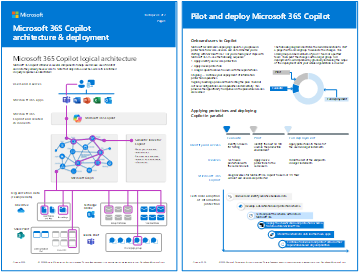
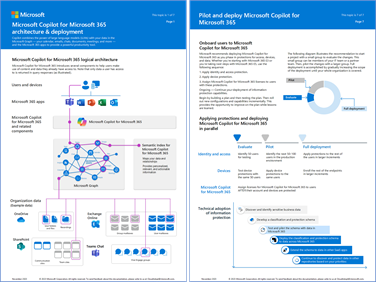
Copilot rebranding updates.

Changed region(s): [[0.0, 0.0, 1.0, 1.0], [0.1838, 0.4118, 0.3983, 0.4706]]

diff --git a/zero-trust/zero-trust-microsoft-365-copilot.md b/zero-trust/zero-trust-microsoft-365-copilot.md
@@ -1,6 +1,6 @@
 ---
-title: Apply principles of Zero Trust to Microsoft 365 Copilot
-description: Learn how to secure Microsoft 365 Copilot with Zero Trust principles. 
+title: Apply principles of Zero Trust to Microsoft Copilot for Microsoft 365
+description: Learn how to secure Microsoft Copilot for Microsoft 365 with Zero Trust principles. 
 ms.date: 11/01/2023
 ms.service: security
 author: bcarter
@@ -13,11 +13,11 @@ ms.collection:
   - zerotrust-azure
 ---
 
-# Apply principles of Zero Trust to Microsoft 365 Copilot
+# Apply principles of Zero Trust to Microsoft Copilot for Microsoft 365
 
-Before you introduce Microsoft 365 Copilot into your environment, Microsoft recommends that you build a strong foundation of security. Fortunately, guidance for a strong security foundation exists in the form of [Zero Trust](zero-trust-overview.md). The Zero Trust security strategy treats each connection and resource request as though it originated from an uncontrolled network and a bad actor. Regardless of where the request originates or what resource it accesses, Zero Trust teaches us to "never trust, always verify."
+Before you introduce Microsoft Copilot for Microsoft 365 into your environment, Microsoft recommends that you build a strong foundation of security. Fortunately, guidance for a strong security foundation exists in the form of [Zero Trust](zero-trust-overview.md). The Zero Trust security strategy treats each connection and resource request as though it originated from an uncontrolled network and a bad actor. Regardless of where the request originates or what resource it accesses, Zero Trust teaches us to "never trust, always verify."
 
-This article provides steps to apply the [principles of Zero Trust](zero-trust-overview.md#guiding-principles-of-zero-trust) security to prepare your environment for Microsoft 365 Copilot in the following ways:
+This article provides steps to apply the [principles of Zero Trust](zero-trust-overview.md#guiding-principles-of-zero-trust) security to prepare your environment for Microsoft Copilot for Microsoft 365 in the following ways:
 
 | Zero Trust principle | Definition | Met by |
 | --- | --- | --- |
@@ -25,26 +25,26 @@ This article provides steps to apply the [principles of Zero Trust](zero-trust-o
 | Use least privileged access |  Limit user access with Just-In-Time and Just-Enough-Access (JIT/JEA), risk-based adaptive policies, and data protection. | Validate JEA across your organization to eliminate oversharing by ensuring that correct permissions are assigned to files, folders, Teams, and email. Use sensitivity labels and data loss prevention policies to protect data.  |
 | Assume breach | Minimize blast radius and segment access. Verify end-to-end encryption and use analytics to get visibility, drive threat detection, and improve defenses. | Use Exchange Online Protection (EOP) and Microsoft 365 Defender services to automatically prevent common attacks and to detect and respond to security incidents. |
 
-For the basics of Microsoft 365 Copilot, see the [overview](/microsoft-365-copilot/microsoft-365-copilot-overview) and [how to get started](/microsoft-365-copilot/microsoft-365-copilot-setup).
+For the basics of Microsoft Copilot for Microsoft 365, see the [overview](/microsoft-365-copilot/microsoft-365-copilot-overview) and [how to get started](/microsoft-365-copilot/microsoft-365-copilot-setup).
 
 ## Logical architecture
 
-You apply Zero Trust principles for Microsoft 365 Copilot across the entire architecture, from users and devices to the application data that they have access to. The following diagram shows the logical architecture components.
+You apply Zero Trust principles for Microsoft Copilot for Microsoft 365 across the entire architecture, from users and devices to the application data that they have access to. The following diagram shows the logical architecture components.
 
-:::image type="content" source="media/copilot/logical-architecture-microsoft-365-copilot.svg" alt-text="Diagram of the logical architecture for Microsoft 365 Copilot." lightbox="media/copilot/logical-architecture-microsoft-365-copilot.svg":::
+:::image type="content" source="media/copilot/logical-architecture-microsoft-365-copilot.svg" alt-text="Diagram of the logical architecture for Microsoft Copilot for Microsoft 365." lightbox="media/copilot/logical-architecture-microsoft-365-copilot.svg":::
 
 In the diagram:
 
 - User devices have Microsoft 365 apps installed from which users can initiate Copilot prompts
-- Microsoft 365 Copilot components include:
-  - The Microsoft 365 Copilot service, which orchestrates the responses to user prompts
+- Microsoft Copilot for Microsoft 365 components include:
+  - The Microsoft Copilot for Microsoft 365 service, which orchestrates the responses to user prompts
   - A Semantic Index for the data in your Microsoft 365 tenant
   - An instance of the Microsoft Graph for the data your Microsoft 365 tenant
 - Your Microsoft 365 tenant that contains your organization data
 
 ## What’s in this article
 
-This article walks you through the steps to apply the principles of Zero Trust to prepare your Microsoft 365 environment for Microsoft 365 Copilot.
+This article walks you through the steps to apply the principles of Zero Trust to prepare your Microsoft 365 environment for Microsoft Copilot for Microsoft 365.
 
 | Step | Task | Zero Trust principle(s) applied |
 | --- | --- | --- |
@@ -58,14 +58,14 @@ This article walks you through the steps to apply the principles of Zero Trust t
 
 Because different organizations can be at various stages of deploying Zero Trust protections, in each of these steps:
 
-- If you're NOT using any of the protections described in the step, take the time to pilot and deploy them prior to assigning Microsoft 365 Copilot licenses.
-- If you're using some of the protections described in the step, use the information in the step as a checklist and verify that each protection stated and pilot and deploy them prior to assigning Microsoft 365 Copilot licenses.
+- If you're NOT using any of the protections described in the step, take the time to pilot and deploy them prior to assigning Microsoft Copilot for Microsoft 365 licenses.
+- If you're using some of the protections described in the step, use the information in the step as a checklist and verify that each protection stated and pilot and deploy them prior to assigning Microsoft Copilot for Microsoft 365 licenses.
 
-For the latest Microsoft 365 Copilot support for security-related and other features of Microsoft 365, see [Microsoft 365 Copilot requirements](/microsoft-365-copilot/microsoft-365-copilot-requirements).
+For the latest Microsoft Copilot for Microsoft 365 support for security-related and other features of Microsoft 365, see [Microsoft Copilot for Microsoft 365 requirements](/microsoft-365-copilot/microsoft-365-copilot-requirements).
 
 ## Step 1. Deploy or validate your identity and access policies
 
-To prevent bad actors from using Microsoft 365 Copilot to more quickly discover and access sensitive data, the first step is to prevent them from gaining access. You must ensure that:
+To prevent bad actors from using Microsoft Copilot for Microsoft 365 to more quickly discover and access sensitive data, the first step is to prevent them from gaining access. You must ensure that:
 
 - Users are required to use strong authentication that can't be compromised by guessing user passwords alone.
 - Authentication attempts are evaluated for their risk and have more requirements imposed.
@@ -113,7 +113,7 @@ For more information, see [Create App Protection policies](/mem/intune/apps/app-
 
 ## Step 3. Deploy or validate your device management and protection
 
-To prevent bad actors from compromising devices or using compromised devices to gain access to Microsoft 365 Copilot, the next step is to use Microsoft 365 features of device management and protection. You must ensure that:
+To prevent bad actors from compromising devices or using compromised devices to gain access to Microsoft Copilot for Microsoft 365, the next step is to use Microsoft 365 features of device management and protection. You must ensure that:
 
 - Devices are enrolled in Microsoft Intune and must meet health and compliance requirements.
 - You can administer settings and features on devices.
@@ -147,7 +147,7 @@ To deploy these device protection and management capabilities, use the following
 
 ## Step 4. Deploy or validate your threat protection services
 
-To detect the activities of bad actors and keep them from gaining access to Microsoft 365 Copilot, the next step is to use threat protection services of Microsoft 365. You must ensure that:
+To detect the activities of bad actors and keep them from gaining access to Microsoft Copilot for Microsoft 365, the next step is to use threat protection services of Microsoft 365. You must ensure that:
 
 - You can automatically prevent common types of email and device-based attacks.
 - You can use features to reduce the attack surface area of Windows devices.
@@ -252,7 +252,7 @@ Consider these additional Microsoft 365 E5 capabilities:
 
 ## Step 6. Deploy or validate secure collaboration for Microsoft Teams
 
-Microsoft provides guidance for protecting your Teams at three different levels – baseline, sensitive, and highly sensitive. Introducing Microsoft 365 Copilot is a good time to review your environment and ensure that appropriate protection is configured. Use these steps:
+Microsoft provides guidance for protecting your Teams at three different levels – baseline, sensitive, and highly sensitive. Introducing Microsoft Copilot for Microsoft 365 is a good time to review your environment and ensure that appropriate protection is configured. Use these steps:
 
 1. Identify Teams or projects that warrant highly sensitive protection. Configure protections for this level. Many organizations don’t have data that requires this level of protection.
 2. Identify Teams or projects that warrant sensitive protection and apply this protection.
@@ -265,7 +265,7 @@ See these resources for more information:
 
 ### External sharing
 
-Introducing Microsoft 365 Copilot is a good time to review your policies for sharing files with people outside your organization and for allowing external contributors. Guest accounts aren't licensed to use Microsoft 365 Copilot.
+Introducing Microsoft Copilot for Microsoft 365 is a good time to review your policies for sharing files with people outside your organization and for allowing external contributors. Guest accounts aren't licensed to use Microsoft Copilot for Microsoft 365.
 
 For sharing with people outside your organization, you might need to share information of any sensitivity. See these resources:
 
@@ -302,7 +302,7 @@ To detect existing oversharing:
 
 ## Applying protections and deploying Copilot in parallel
 
-To streamline the assignment of Microsoft 365 Copilot licenses in your tenant with the appropriate protections in place, you do both in parallel. The following diagram shows how you can move through the three phases of rolling out protections prior to assigning Microsoft 365 Copilot licenses to individual user accounts and their devices once they're protected.
+To streamline the assignment of Microsoft Copilot for Microsoft 365 licenses in your tenant with the appropriate protections in place, you do both in parallel. The following diagram shows how you can move through the three phases of rolling out protections prior to assigning Microsoft Copilot for Microsoft 365 licenses to individual user accounts and their devices once they're protected.
 
 :::image type="content" source="media/copilot/parallel-deployment-for-microsoft-365-copilot.svg" alt-text="Diagram of applying protections and deploying Copilot in parallel." lightbox="media/copilot/parallel-deployment-for-microsoft-365-copilot.svg":::
 
@@ -310,33 +310,33 @@ As the diagram also shows, you can roll out information protection across your o
 
 ## Training 
 
-### Get started with Microsoft 365 Copilot
+### Get started with Microsoft Copilot for Microsoft 365
 
-|Training  |[Get started with Microsoft 365 Copilot](/training/paths/get-started-with-microsoft-365-copilot/)|
+|Training  |[Get started with Microsoft Copilot for Microsoft 365](/training/paths/get-started-with-microsoft-365-copilot/)|
 |---------|---------|
-|:::image type="icon" source="media/generic-trophy.svg" border="false"::: | This learning path walks you through the basics of Microsoft 365 Copilot, showcases its versatility across various Microsoft 365 applications, and offers advice on maximizing its potential. |
+|:::image type="icon" source="media/generic-trophy.svg" border="false"::: | This learning path walks you through the basics of Microsoft Copilot for Microsoft 365, showcases its versatility across various Microsoft 365 applications, and offers advice on maximizing its potential. |
 > [!div class="nextstepaction"]
 > [Start >](/training/paths/get-started-with-microsoft-365-copilot/)
 
 
-|Training  |[Prepare your organization for Microsoft 365 Copilot](/training/paths/prepare-your-organization-microsoft-365-copilot/)|
+|Training  |[Prepare your organization for Microsoft Copilot for Microsoft 365](/training/paths/prepare-your-organization-microsoft-365-copilot/)|
 |---------|---------|
-|:::image type="icon" source="media/generic-trophy.svg" border="false"::: | This learning path examines the Microsoft 365 Copilot design, its security and compliance features, and provides instruction on how to implement Microsoft 365 Copilot. |
+|:::image type="icon" source="media/generic-trophy.svg" border="false"::: | This learning path examines the Microsoft Copilot for Microsoft 365 design, its security and compliance features, and provides instruction on how to implement Microsoft Copilot for Microsoft 365. |
 > [!div class="nextstepaction"]
 > [Start >](/training/paths/prepare-your-organization-microsoft-365-copilot/)
 
 
 ## Next steps
 
-See the [How to get ready for Microsoft 365 Copilot](https://www.youtube.com/watch?v=oeX0lsMA69U&t=2s) video.
+See the [How to get ready for Microsoft Copilot for Microsoft 365](https://www.youtube.com/watch?v=oeX0lsMA69U&t=2s) video.
 
-Use the [Microsoft 365 Copilot documentation](/microsoft-365-copilot/).
+Use the [Microsoft Copilot for Microsoft 365 documentation](/microsoft-365-copilot/).
 
 ## Summary poster
 
-For a visual summary of the information in this article, see the **Microsoft 365 Copilot architecture & deployment** poster. 
+For a visual summary of the information in this article, see the **Microsoft Copilot for Microsoft 365 architecture & deployment** poster. 
 
-[![Microsoft 365 Copilot architecture poster thumb](media/tech-illus/microsoft-365-copilot-architecture-thumb.png)](https://download.microsoft.com/download/c/d/6/cd6c6858-f87b-4dc5-a593-e87db0aa6029/microsoft-365-copilot-architecture.pdf)
+[![Microsoft Copilot for Microsoft 365 architecture poster thumb](media/tech-illus/microsoft-365-copilot-architecture-thumb.png)](https://download.microsoft.com/download/c/d/6/cd6c6858-f87b-4dc5-a593-e87db0aa6029/microsoft-365-copilot-architecture.pdf)
 
 [PDF](https://download.microsoft.com/download/c/d/6/cd6c6858-f87b-4dc5-a593-e87db0aa6029/microsoft-365-copilot-architecture.pdf) | [Visio](https://download.microsoft.com/download/c/d/6/cd6c6858-f87b-4dc5-a593-e87db0aa6029/microsoft-365-copilot-architecture.vsdx)
 
@@ -348,8 +348,8 @@ For more technical illustrations, click [here](zero-trust-tech-illus.md).
 
 Refer to these links to learn about the various services and technologies mentioned in this article.
 
-- [Microsoft 365 Copilot overview](/microsoft-365-copilot/microsoft-365-copilot-overview)
-- [Data, Privacy, and Security for Microsoft 365 Copilot](/microsoft-365-copilot/microsoft-365-copilot-privacy)
+- [Microsoft Copilot for Microsoft 365 overview](/microsoft-365-copilot/microsoft-365-copilot-overview)
+- [Data, Privacy, and Security for Microsoft Copilot for Microsoft 365](/microsoft-365-copilot/microsoft-365-copilot-privacy)
 - [Common security policies for Microsoft 365 organizations](/microsoft-365/security/office-365-security/zero-trust-identity-device-access-policies-common)
 - [Intune App Protection policies (APP)](/mem/intune/apps/app-protection-policy)
 - [Manage devices with Intune](/microsoft-365/solutions/manage-devices-with-intune-overview)

diff --git a/zero-trust/zero-trust-tech-illus.md b/zero-trust/zero-trust-tech-illus.md
@@ -37,13 +37,13 @@ This illustration provides a deployment plan for applying Zero Trust principles 
 |:-----|:-----|
 |[![Illustration of the Microsoft 365 Zero Trust deployment plan.](media/tech-illus/m365-zero-trust-deployment-plan-thumb.png)](https://download.microsoft.com/download/f/d/b/fdb6ab0c-34bb-4cb8-84e6-5de8f13298da/m365-zero-trust-deployment-plan.pdf) <br/> [PDF](https://download.microsoft.com/download/f/d/b/fdb6ab0c-34bb-4cb8-84e6-5de8f13298da/m365-zero-trust-deployment-plan.pdf) \| [Visio](https://download.microsoft.com/download/f/d/b/fdb6ab0c-34bb-4cb8-84e6-5de8f13298da/m365-zero-trust-deployment-plan.vsdx) <br/> Updated February 2023 | Use this illustration together with this article: [Microsoft 365 Zero Trust deployment plan](/microsoft-365/security/microsoft-365-zero-trust) <br/><br/>**Related solution guides** <br/> <ul><li>[Deploy your identity infrastructure for Microsoft 365](/microsoft-365/enterprise/deploy-identity-solution-overview)</li><li>[Recommended identity and device access configurations](/microsoft-365/security/office-365-security/microsoft-365-policies-configurations)</li><li>[Manage devices with Intune](/microsoft-365/solutions/manage-devices-with-intune-overview)</li><li>[Evaluate and pilot Microsoft 365 Defender](/microsoft-365/security/defender/eval-overview)</li><li>[Deploy an information protection solution with Microsoft Purview](/microsoft-365/compliance/information-protection-solution)</li><li>[Deploy information protection for data privacy regulations with Microsoft 365](/microsoft-365/solutions/data-privacy-protection)</li></ul>|
 
-### Zero Trust for Microsoft 365 Copilot
+### Zero Trust for Microsoft Copilot for Microsoft 365
 
-Adopting Microsoft 365 Copilot is a great incentive for your organization to invest in Zero Trust. This set of illustrations introduces new logical architecture components for Microsoft 365 Copilot. It also includes security and deployment recommendations for preparing your environment for Microsoft 365 Copilot. These recommendations align with Zero Trust recommendations and help you begin this journey, even if your licenses are Microsoft 365 E3!  
+Adopting Microsoft Copilot for Microsoft 365 is a great incentive for your organization to invest in Zero Trust. This set of illustrations introduces new logical architecture components for Microsoft Copilot for Microsoft 365. It also includes security and deployment recommendations for preparing your environment for Microsoft Copilot for Microsoft 365. These recommendations align with Zero Trust recommendations and help you begin this journey, even if your licenses are Microsoft 365 E3!  
 
 | Item | Description |
 |:-----|:-----|
-|[![Microsoft 365 Copilot architecture poster thumb](media/tech-illus/microsoft-365-copilot-architecture-thumb.png)](https://download.microsoft.com/download/c/d/6/cd6c6858-f87b-4dc5-a593-e87db0aa6029/microsoft-365-copilot-architecture.pdf) <br/> [PDF](https://download.microsoft.com/download/c/d/6/cd6c6858-f87b-4dc5-a593-e87db0aa6029/microsoft-365-copilot-architecture.pdf) \| [Visio](https://download.microsoft.com/download/c/d/6/cd6c6858-f87b-4dc5-a593-e87db0aa6029/microsoft-365-copilot-architecture.vsdx)  <br>Updated October 2023   |Copilot combines the power of large language models (LLMs) with your data in the Microsoft Graph — your calendar, emails, chats, documents, meetings, and more — and the Microsoft 365 apps to provide a powerful productivity tool.<br/> <br/>This series of illustrations provides a view into new logical architecture components. It includes recommendations for preparing your environment for Microsoft 365 Copilot with security and information protection while assigning licenses.
+|[![Microsoft Copilot for Microsoft 365 architecture poster thumb](media/tech-illus/microsoft-365-copilot-architecture-thumb.png)](https://download.microsoft.com/download/c/d/6/cd6c6858-f87b-4dc5-a593-e87db0aa6029/microsoft-365-copilot-architecture.pdf) <br/> [PDF](https://download.microsoft.com/download/c/d/6/cd6c6858-f87b-4dc5-a593-e87db0aa6029/microsoft-365-copilot-architecture.pdf) \| [Visio](https://download.microsoft.com/download/c/d/6/cd6c6858-f87b-4dc5-a593-e87db0aa6029/microsoft-365-copilot-architecture.vsdx)  <br>Updated November 2023 |Copilot combines the power of large language models (LLMs) with your data in the Microsoft Graph — your calendar, emails, chats, documents, meetings, and more — and the Microsoft 365 apps to provide a powerful productivity tool. <br/><br/> This series of illustrations provides a view into new logical architecture components. It includes recommendations for preparing your environment for Microsoft Copilot for Microsoft 365 with security and information protection while assigning licenses. |
 
 
 <!---
